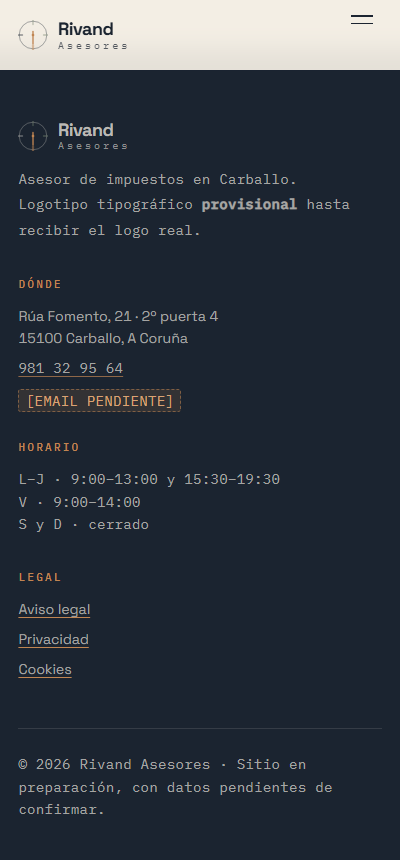
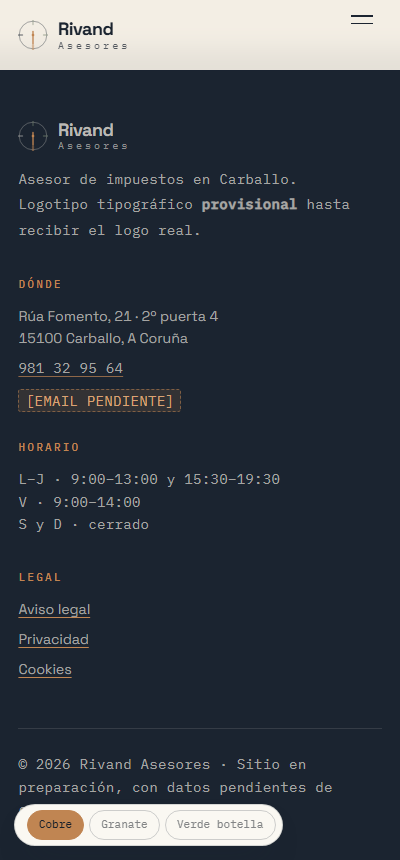
Control de paleta (demostración): tres colores en vivo mientras el cliente decide
Mando flotante (#paleta) para enseñar la misma web con tres paletas
distintas delante de un cliente sin reeditar el CSS en la reunión, igual
que ya tiene Dourado & Fernández. Cobre (real), Granate y Verde botella:
solo cambia el color de marca (--noche/--cobre/--salvia y derivados), la
tinta y el papel son los mismos en las tres. Contrastes de las dos
paletas nuevas calculados con la fórmula WCAG de luminancia relativa
(no a ojo) para igualar o mejorar los de la paleta real. Se resuelve en
un script bloqueante del <head> para no parpadear al recargar.

De paso se corrigió un bug real que la propia verificación encontró: un
comentario CSS contenía la secuencia "*/" dentro del texto, cerrando el
comentario antes de tiempo y dejando muda la regla html.paleta-granate.

scripts/verify.js pasa de 55 a 65 pruebas (10 nuevas: cambio de paleta,
persistencia en localStorage, ausencia de flash tras recargar, y que la
píldora no se solapa con el aviso de cookies abierto).

Changed region(s): [[0.03, 0.9372, 0.72, 0.9977]]

diff --git a/scripts/verify.js b/scripts/verify.js
@@ -403,6 +403,79 @@ function trimestreEsperado(ahora) {
     await page.close();
   }
 
+  /* ---------- 13. control de paleta (demostración) ---------- */
+  {
+    const page = await nuevaPagina(browser);
+    await page.goto(BASE, { waitUntil: 'load' });
+    await page.waitForTimeout(500);
+
+    const inicial = await page.evaluate(() => {
+      const caja = document.getElementById('paleta');
+      return {
+        visible: caja && !caja.hidden,
+        pressed: caja && document.getElementById('paleta-cobre').getAttribute('aria-pressed'),
+        cobre: getComputedStyle(document.documentElement).getPropertyValue('--cobre').trim()
+      };
+    });
+    ok('el control de paleta se muestra con JS', inicial.visible, inicial);
+    ok('«Cobre» empieza marcado por defecto', inicial.pressed === 'true', inicial.pressed);
+
+    await page.locator('#paleta-granate').click();
+    await page.waitForTimeout(150);
+    const trasGranate = await page.evaluate(() => ({
+      clase: document.documentElement.className,
+      cobre: getComputedStyle(document.documentElement).getPropertyValue('--cobre').trim(),
+      guardado: (() => { try { return localStorage.getItem('rivand-paleta'); } catch (e) { return null; } })()
+    }));
+    ok('al pulsar «Granate» cambia la clase y el color de marca (--cobre) computado',
+      /paleta-granate/.test(trasGranate.clase) && trasGranate.cobre.toLowerCase() !== inicial.cobre.toLowerCase(),
+      trasGranate);
+    ok('la elección de paleta se guarda en localStorage', trasGranate.guardado === 'granate', trasGranate.guardado);
+
+    await page.reload({ waitUntil: 'load' });
+    const sinFlash = await page.evaluate(() => document.documentElement.classList.contains('paleta-granate'));
+    ok('al recargar, la paleta guardada ya está puesta nada más cargar (sin flash)', sinFlash);
+
+    await page.locator('#paleta-botella').click();
+    await page.waitForTimeout(150);
+    const trasBotella = await page.evaluate(() => ({
+      clase: document.documentElement.className,
+      cobre: getComputedStyle(document.documentElement).getPropertyValue('--cobre').trim(),
+      guardado: (() => { try { return localStorage.getItem('rivand-paleta'); } catch (e) { return null; } })()
+    }));
+    ok('«Verde botella» también cambia clase, color computado y localStorage',
+      /paleta-botella/.test(trasBotella.clase) && !/paleta-granate/.test(trasBotella.clase) &&
+      trasBotella.cobre.toLowerCase() !== trasGranate.cobre.toLowerCase() && trasBotella.guardado === 'botella',
+      trasBotella);
+    await page.screenshot({ path: path.join(CAPS, 'paleta-botella.png') });
+
+    await page.locator('#paleta-cobre').click();
+    await page.waitForTimeout(150);
+    const trasCobre = await page.evaluate(() => document.documentElement.className);
+    ok('volver a «Cobre» quita las dos clases de paleta', !/paleta-(granate|botella)/.test(trasCobre), trasCobre);
+
+    ok('sin errores de consola durante el cambio de paleta', page.errores.length === 0, page.errores);
+    await page.close();
+  }
+
+  /* ---------- 14. el mando de paleta no se solapa con el aviso de cookies ---------- */
+  {
+    const page = await nuevaPagina(browser, { viewport: { width: 375, height: 700 } });
+    await page.goto(BASE, { waitUntil: 'load' });
+    await page.waitForTimeout(500);
+    const visible = await page.locator('.cookie-banner').isVisible();
+    ok('el aviso de cookies está abierto para esta prueba', visible);
+    const rects = await page.evaluate(() => {
+      const b = document.querySelector('.cookie-banner').getBoundingClientRect();
+      const p = document.getElementById('paleta').getBoundingClientRect();
+      return { banner: { top: b.top, bottom: b.bottom }, paleta: { top: p.top, bottom: p.bottom } };
+    });
+    const solapan = rects.paleta.top < rects.banner.bottom && rects.paleta.bottom > rects.banner.top;
+    ok('el mando de paleta no se solapa con el aviso de cookies abierto', !solapan, rects);
+    await page.screenshot({ path: path.join(CAPS, 'paleta-vs-cookies-375.png') });
+    await page.close();
+  }
+
   /* ---------- informe ---------- */
   await browser.close();
   const fallos = resultados.filter(r => !r.ok);

diff --git a/css/style.css b/css/style.css
@@ -30,6 +30,31 @@
   --cookie-h: 0px;     /* alto del aviso de cookies mientras está abierto; lo fija main.js */
 }
 
+/* -------------------------- Control de paleta --------------------------
+   BLOQUE DE DEMOSTRACIÓN: se borra entero al entregar la web ya como
+   oficial (ver README, "El control de paleta"). Solo cambia el color de
+   marca — la tinta (--tinta y derivados), el papel (--crema, --papel) y
+   el resto de variables estructurales son los mismos en las tres paletas,
+   para que el texto siga siendo legible y el sitio no se vea "descolorido"
+   en ningún caso.
+   Aquí, a diferencia de una plantilla con fondo claro fijo, el --noche/
+   --noche-2/--noche-3 estructural también se redefine junto al acento:
+   en "Cuenta atrás" el cobre es la aguja sobre un cielo nocturno, así que
+   pintar un acento granate o verde botella sobre un fondo azul noche
+   desentonaría, como una identidad a medio repintar. Cada paleta repinta
+   el fondo oscuro (cabecera, hero, calendario, pie) a la vez que el
+   acento, como haría una repintada de marca real. */
+html.paleta-granate {
+  --noche: #241318; --noche-2: #170C0F; --noche-3: #3A2226;
+  --cobre: #C77165; --cobre-claro: #DE9186; --cobre-tinta: #8C3226;
+  --salvia: #A9863F; --salvia-claro: #CDB06E; --salvia-tinta: #765A25;
+}
+html.paleta-botella {
+  --noche: #0F2019; --noche-2: #0A1712; --noche-3: #1E3129;
+  --cobre: #619978; --cobre-claro: #84B79A; --cobre-tinta: #296340;
+  --salvia: #B07752; --salvia-claro: #D2A784; --salvia-tinta: #855334;
+}
+
 *, *::before, *::after { box-sizing: border-box; }
 html { -webkit-text-size-adjust: 100%; scroll-behavior: auto; }
 body {
@@ -663,6 +688,37 @@ button { font: inherit; color: inherit; background: none; border: 0; padding: 0;
 .cookie-banner:not([hidden]) { display: flex; }
 .cookie-banner p { margin: 0; font-size: 0.8rem; line-height: 1.6; }
 .cookie-banner .btn { flex: none; }
+
+/* ---------- Control de paleta (demostración, ver nota arriba en :root) ----------
+   El aviso de cookies de este sitio va arriba (top:0), no abajo, así que
+   la píldora no necesita apartarse con --cookie-h como haría un botón de
+   WhatsApp flotante; verificado por script que nunca se solapan. */
+.paleta { display: none; }
+.paleta:not([hidden]) {
+  display: flex; position: fixed; z-index: 40; left: 1.2rem; bottom: 1.2rem;
+  align-items: center; gap: 0.6rem; background: var(--papel);
+  border: 1px solid color-mix(in srgb, var(--tinta) 16%, transparent);
+  border-radius: 999px; padding: 0.4rem 0.5rem 0.4rem 0.9rem;
+  box-shadow: 0 16px 32px -18px color-mix(in srgb, var(--noche) 55%, transparent);
+}
+.paleta-rotulo {
+  margin: 0; font-family: var(--mono); font-size: 0.62rem; letter-spacing: 0.16em;
+  text-transform: uppercase; color: var(--tinta-3);
+}
+.paleta-botones { display: flex; gap: 0.3rem; }
+.paleta-botones button {
+  font-family: var(--mono); font-size: 0.66rem; letter-spacing: 0.03em; cursor: pointer;
+  background: transparent; color: var(--tinta-3);
+  border: 1px solid color-mix(in srgb, var(--tinta) 20%, transparent); border-radius: 999px;
+  padding: 0.34rem 0.7rem;
+  transition: background-color 0.2s, color 0.2s, border-color 0.2s;
+}
+.paleta-botones button:hover { color: var(--tinta); border-color: color-mix(in srgb, var(--tinta) 40%, transparent); }
+.paleta-botones button[aria-pressed="true"] { background: var(--cobre); color: #17202B; border-color: var(--cobre); }
+@media (max-width: 480px) {
+  .paleta:not([hidden]) { left: 0.9rem; bottom: 0.9rem; padding: 0.3rem 0.4rem 0.3rem 0.7rem; }
+  .paleta-rotulo { display: none; }
+}
 
 /* ============================ DIÁLOGOS ============================ */
 

diff --git a/index.html b/index.html
@@ -53,6 +53,16 @@
 <link href="https://fonts.googleapis.com/css2?family=Space+Grotesk:wght@400;500;600;700&family=IBM+Plex+Mono:wght@400;500&display=swap" rel="stylesheet">
 <link rel="stylesheet" href="css/style.css?v=1">
 <script>document.documentElement.classList.remove('no-js');document.documentElement.classList.add('js');</script>
+<script>
+/* Paleta elegida en el control de maqueta. Se resuelve aquí, antes de
+   pintar, o la página arrancaría en una paleta y saltaría a otra.
+   CONTROL DE DEMOSTRACIÓN: ver README, "El control de paleta", para
+   quitarlo al entregar la web ya como oficial. */
+try {
+  var p = localStorage.getItem('rivand-paleta');
+  if (p === 'granate' || p === 'botella') document.documentElement.classList.add('paleta-' + p);
+} catch (e) {}
+</script>
 </head>
 <body>
 
@@ -60,6 +70,21 @@
   <p>Sin cookies de terceros. Solo se guarda en tu navegador que ya viste este aviso. El mapa de Google se carga únicamente si tú lo pides.
     <button type="button" class="link-btn" data-dialog="dlg-cookies">Más detalle</button></p>
   <button class="cookie-ack btn btn-cobre" type="button"><span class="btn-inner">Entendido</span></button>
+</div>
+
+<!-- ===================== CONTROL DE PALETA =====================
+     Esto NO es parte del sitio: es un mando para enseñar la misma web con
+     tres paletas de color distintas delante del cliente, mientras decide.
+     Al entregar la web ya como oficial se borra este bloque, el bloque
+     .paleta del CSS, la función initPaleta() de main.js y la bandera del
+     <head>. Viene con [hidden]: sin JS no aparece, porque no haría nada. -->
+<div class="paleta" id="paleta" hidden>
+  <p class="paleta-rotulo">Paleta</p>
+  <div class="paleta-botones" role="group" aria-label="Paleta de color de la maqueta">
+    <button type="button" id="paleta-cobre" aria-pressed="true">Cobre</button>
+    <button type="button" id="paleta-granate" aria-pressed="false">Granate</button>
+    <button type="button" id="paleta-botella" aria-pressed="false">Verde botella</button>
+  </div>
 </div>
 
 <a class="skip" href="#contenido">Saltar al contenido</a>

diff --git a/js/main.js b/js/main.js
@@ -157,6 +157,40 @@
     });
   })();
 
+  /* ---------------- El control de paleta ----------------
+     NO ES PARTE DEL SITIO. Es un mando para enseñar la misma web en tres
+     paletas de color delante del cliente mientras decide. Al entregar la
+     web ya como oficial se borra esta función, el bloque .paleta del CSS,
+     el <div id="paleta"> y la bandera del <head>. */
+  (function initPaleta() {
+    var caja = $("#paleta");
+    var botones = {
+      cobre: $("#paleta-cobre"),
+      granate: $("#paleta-granate"),
+      botella: $("#paleta-botella")
+    };
+    if (!caja || !botones.cobre || !botones.granate || !botones.botella) return;
+    var CLAVE_PALETA = "rivand-paleta";
+
+    caja.hidden = false; // sin JS no se enseña: no haría nada
+
+    function pintar(nombre, guardar) {
+      doc.classList.remove("paleta-granate", "paleta-botella");
+      if (nombre !== "cobre") doc.classList.add("paleta-" + nombre);
+      Object.keys(botones).forEach(function (k) {
+        botones[k].setAttribute("aria-pressed", String(k === nombre));
+      });
+      if (guardar) { try { localStorage.setItem(CLAVE_PALETA, nombre); } catch (e) {} }
+    }
+
+    var actual = doc.classList.contains("paleta-granate") ? "granate"
+      : doc.classList.contains("paleta-botella") ? "botella" : "cobre";
+    pintar(actual, false);
+    botones.cobre.addEventListener("click", function () { pintar("cobre", true); });
+    botones.granate.addEventListener("click", function () { pintar("granate", true); });
+    botones.botella.addEventListener("click", function () { pintar("botella", true); });
+  })();
+
   /* --- diálogos legales --- */
   $$("[data-dialog]").forEach(function (b) {
     b.addEventListener("click", function () {

diff --git a/README.md b/README.md
@@ -24,11 +24,60 @@ python -m http.server 8971
 NODE_PATH=<ruta a node_modules con playwright> node scripts/verify.js
 ```
 
-**55/55 pruebas pasan.** El informe queda en `scripts/verify-report.json`. Cubre:
+**65/65 pruebas pasan.** El informe queda en `scripts/verify-report.json`. Cubre:
 la aguja encaja en el trimestre real, el aviso de cookies cierra de verdad, el mapa no se
 carga hasta pulsarlo, reduced-motion, el sticky-stack, los contadores, 400 px sin recortes
-ni scroll lateral, la página sin JS y la honestidad de los datos (sin precios, con la
-reseña real reproducida literal, sin declarar ni insinuar ningún recuento, y con todos los marcadores de pendiente a la vista).
+ni scroll lateral, la página sin JS, la honestidad de los datos (sin precios, con la
+reseña real reproducida literal, sin declarar ni insinuar ningún recuento, y con todos los
+marcadores de pendiente a la vista) y el control de paleta de demostración (abajo).
+
+---
+
+## El control de paleta (demostración, quitar antes de dar la web por oficial)
+
+**Solo para mientras el cliente decide el color.** El 2026-09-21 Alvaro enseñó plantillas a
+un cliente real (Dourado & Fernández) y le dijo que no le gustaba el verde de su web; a raíz
+de eso se añadió a todas las plantillas de asesoría/gestoría un mando en vivo para probar
+paletas alternativas delante del cliente, sin tener que reeditar el CSS en la reunión.
+
+La píldora de abajo a la izquierda (`#paleta`) cambia en vivo entre tres paletas:
+
+| Botón | Paleta | Nota |
+|---|---|---|
+| **Cobre** | La real, marcada por defecto. `--noche` azul noche + `--cobre` cobre + `--salvia` salvia. |
+| **Granate** | Vino/granate sobre un fondo casi negro con un punto de rojo, con un dorado apagado como acento secundario (registro de sello y pan de oro). |
+| **Verde botella** | Verde ledger sobre un fondo casi negro con un punto de verde, con un terracota apagado como acento secundario. |
+
+Solo cambian el **color de marca**: `--noche`/`--noche-2`/`--noche-3` (el fondo oscuro
+estructural — se redefine junto al acento porque en «Cuenta atrás» el cobre es la aguja
+sobre un cielo nocturno, y un acento granate o verde pintado sobre un azul noche desentonaría)
+y `--cobre`/`--cobre-claro`/`--cobre-tinta`/`--salvia`/`--salvia-claro`/`--salvia-tinta`. La
+tinta, el papel (`--crema`, `--crema-2`, `--papel`) y el resto de variables estructurales son
+los mismos en las tres, para que el texto siga siendo legible en cualquiera. Los contrastes
+de las dos paletas nuevas se calcularon con la fórmula de luminancia relativa WCAG (no a ojo)
+para igualar o mejorar los de la paleta real: `--cobre-tinta` sobre `--crema` ≥5,1:1,
+`--salvia-claro` sobre `--noche` ≥5,8:1, `--salvia-tinta` sobre `--crema` ≥5,5:1.
+
+La elección se recuerda en `localStorage` (`rivand-paleta`) y se resuelve en un script
+bloqueante del `<head>`, antes de pintar, para que la página no arranque en una paleta y
+salte a otra al cargar. Comprobado por script en `scripts/verify.js` (clase aplicada, color
+`--cobre` computado distinto, persistencia en `localStorage`, ausencia de parpadeo tras
+recargar, y que la píldora no se solapa con el aviso de cookies mientras está abierto — aquí
+el aviso va arriba, no abajo, así que no necesita apartarse con `--cookie-h` como haría un
+botón de WhatsApp flotante).
+
+### Cómo quitarlo al dar la web por oficial
+
+**Esto hay que hacerlo siempre**, con el mismo criterio que cualquier otro control de
+demostración de la carpeta. Se borran cuatro cosas:
+
+1. `index.html`: el bloque `<div class="paleta" id="paleta">` (marcado con comentario) y, en
+   el `<script>` del `<head>`, el `try` que lee `rivand-paleta`.
+2. `js/main.js`: la función `initPaleta()`.
+3. `css/style.css`: el bloque «Control de paleta» de `:root` (`html.paleta-granate` /
+   `html.paleta-botella`) y el bloque `.paleta*` cerca del aviso de cookies.
+4. Confirmar con el cliente cuál de las tres paletas se queda como definitiva antes de
+   borrar las otras dos.
 
 ---
 
@@ -233,7 +282,7 @@ scripts/
   buscar_pexels.js    búsqueda + hojas de contacto para elegir fotos
   hoja_contacto.py
   process_photos.py   descarga y gradación a la paleta
-  verify.js           las 52 pruebas de Playwright
+  verify.js           las 65 pruebas de Playwright
   verify-report.json
 screenshots/
 ```
